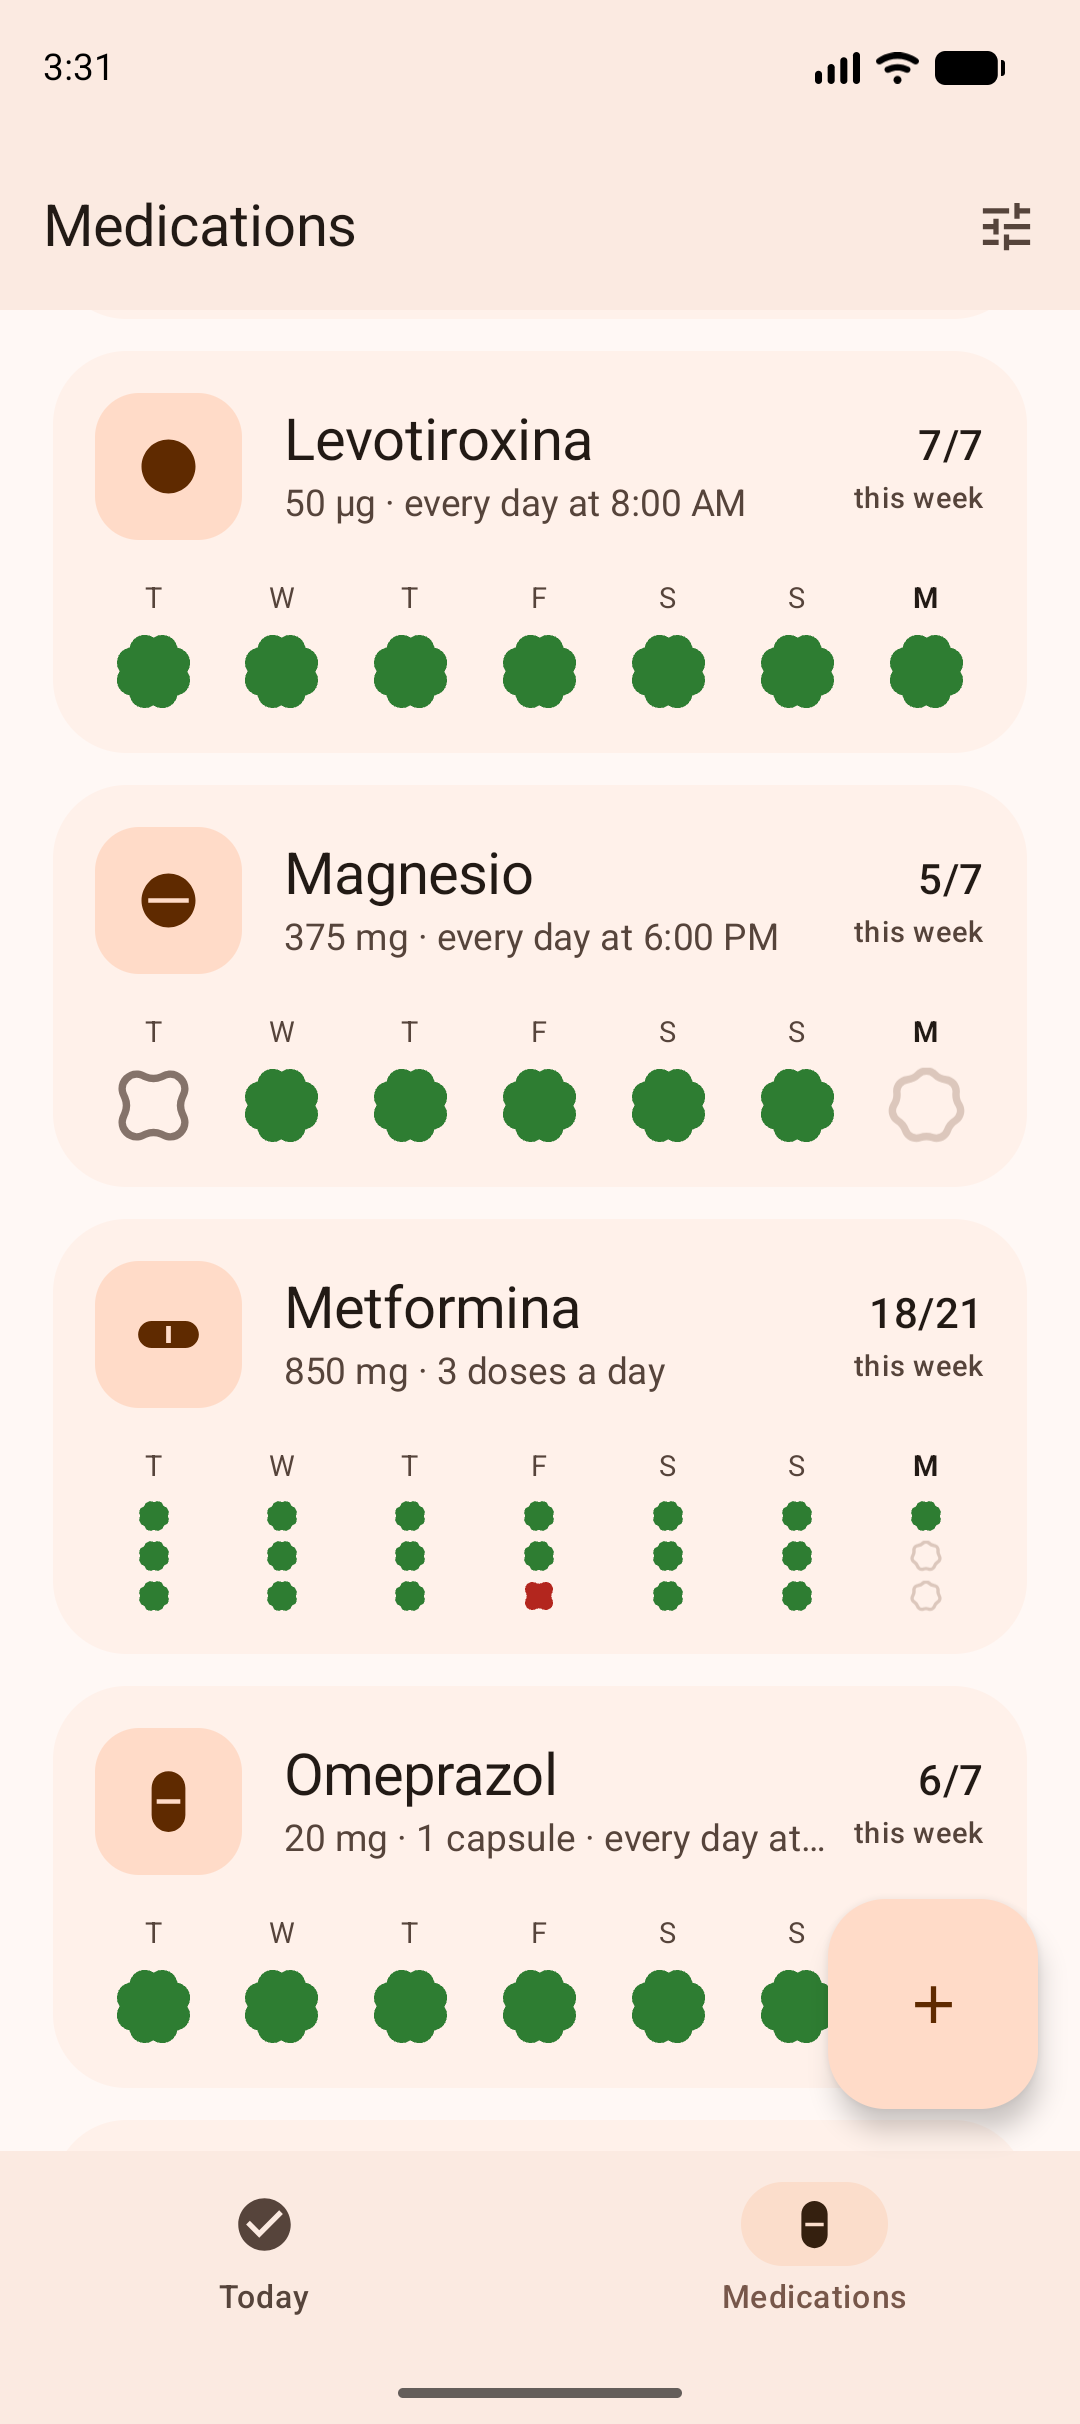
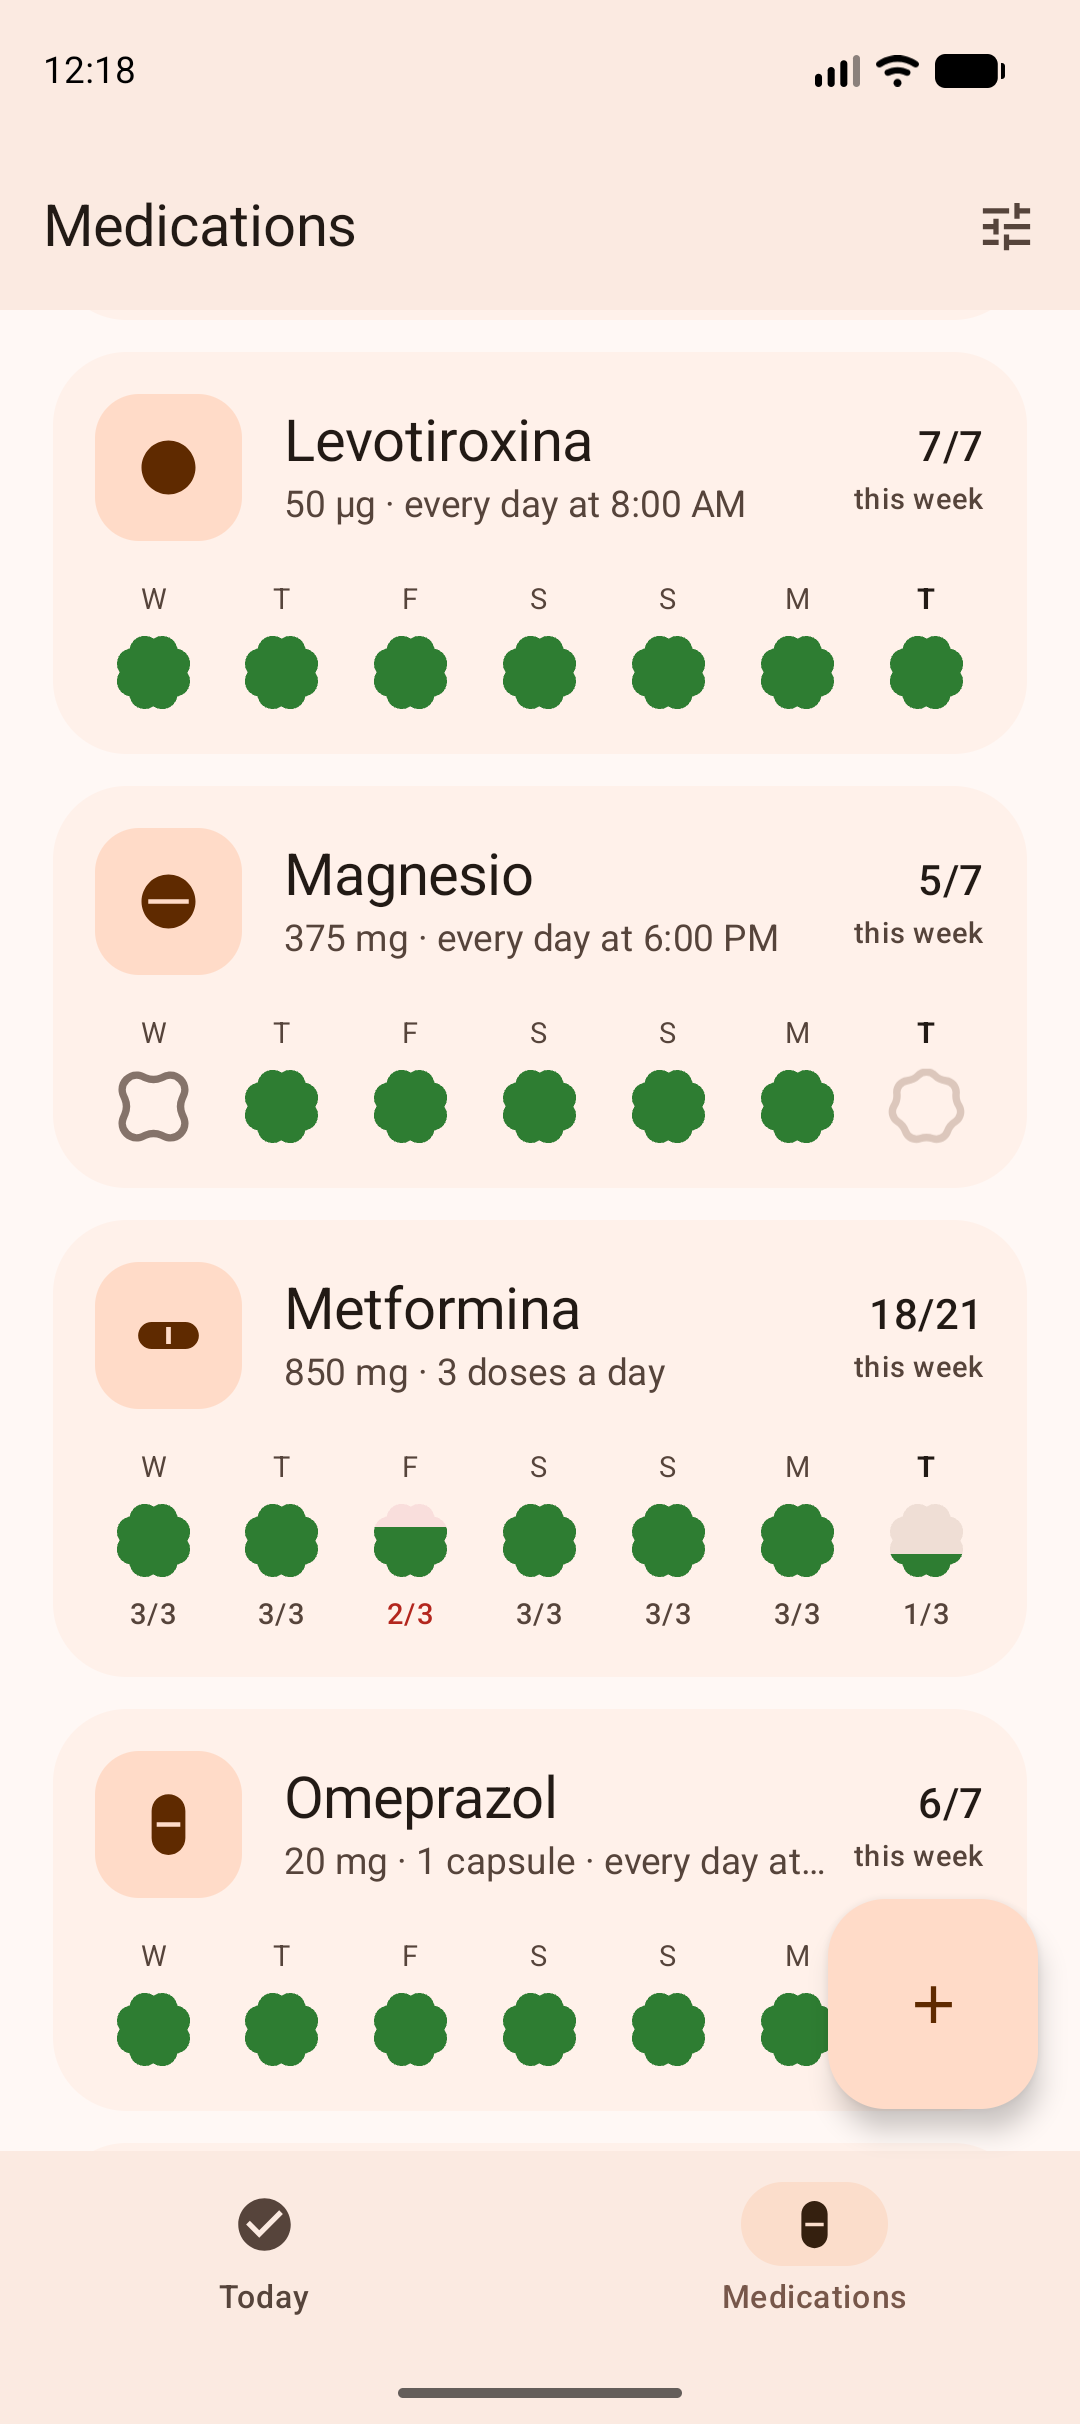
Give every week-strip day one fixed cell instead of shrinking to fit
The strip sized its cells to fit the busiest day's doses, so a three-a-day
medication drew 12 dp cells: too small to read, and too small for the shape
vocabulary (clover, cookie, diamond) to stay distinguishable. Each medication
also ended up a different height, so no two cards could be compared, and past
four doses a day the metaphor switched to proportional fill entirely.

One 30 dp cell per day now, whatever the schedule. A day with a single dose
still shows that dose's shape, so a once-a-day medication is pixel-identical to
before. A day with several reuses DoseFractionCell — already written for the
four-plus case — and spells the count out underneath, in the error color when
a dose was missed or skipped. Nothing to relearn, and "2 of 3 taken" reads at a
glance.

Days with nothing scheduled keep a middle dot so the count row stays aligned.

diff --git a/app/src/main/kotlin/com/victorfalcon/dose/ui/meds/MedicationsScreen.kt b/app/src/main/kotlin/com/victorfalcon/dose/ui/meds/MedicationsScreen.kt
@@ -14,7 +14,7 @@ import androidx.compose.foundation.layout.height
 import androidx.compose.foundation.layout.padding
 import androidx.compose.foundation.layout.width
 import androidx.compose.foundation.lazy.LazyColumn
-import androidx.compose.foundation.lazy.items
+import androidx.compose.foundation.lazy.itemsIndexed
 import androidx.compose.foundation.shape.RoundedCornerShape
 import androidx.compose.material3.Button
 import androidx.compose.material3.ButtonDefaults
@@ -39,6 +39,7 @@ import com.victorfalcon.dose.ui.common.DoseCellState
 import com.victorfalcon.dose.ui.common.DoseFractionCell
 import com.victorfalcon.dose.ui.common.DoseStateCell
 import com.victorfalcon.dose.ui.common.MedIcon
+import com.victorfalcon.dose.ui.common.entryFadeSlide
 import com.victorfalcon.dose.ui.common.scheduleSummaryShort
 import java.time.LocalDate
 import java.time.format.TextStyle
@@ -59,8 +60,10 @@ fun MedicationsScreen(
         modifier = Modifier.fillMaxSize(),
         contentPadding = PaddingValues(top = 4.dp, bottom = 96.dp),
     ) {
-        items(medications, key = { it.medication.id }) { row ->
-            MedicationCard(row, Modifier.animateItem()) { onOpenMedication(row.medication.id) }
+        itemsIndexed(medications, key = { _, row -> row.medication.id }) { index, row ->
+            MedicationCard(row, Modifier.animateItem().entryFadeSlide(index)) {
+                onOpenMedication(row.medication.id)
+            }
         }
     }
 }
@@ -124,25 +127,22 @@ private fun MedicationCard(row: MedRow, modifier: Modifier = Modifier, onClick: 
 }
 
 /**
- * The week, one column per day and one cell per dose. A once-a-day medication looks like a single
- * row of shapes; a three-times-a-day one stacks three, so "2 of 3 taken" is visible instead of
- * being rounded into a verdict.
+ * The week, one column per day at one fixed cell size. A day with a single dose shows that dose's
+ * shape; a day with several shows one shape filled to the fraction taken, with the count spelled
+ * out underneath — so "2 of 3 taken" reads without shrinking the cells, and every card ends up the
+ * same height whatever the schedule.
  */
 @Composable
 private fun WeekStrip(row: MedRow) {
     val today = remember { LocalDate.now() }
-    val cellSize = when (row.dosesPerDay) {
-        0, 1 -> 30.dp
-        2 -> 17.dp
-        3 -> 12.dp
-        else -> 28.dp // four or more: one proportional cell per day
-    }
     Row(
         modifier = Modifier.fillMaxWidth(),
         horizontalArrangement = Arrangement.spacedBy(4.dp),
     ) {
         row.week.forEach { day ->
             val isToday = day.date == today
+            val taken = day.cells.count { it == DoseCellState.TAKEN }
+            val failed = day.cells.any { it == DoseCellState.MISSED || it == DoseCellState.SKIPPED }
             Column(
                 modifier = Modifier.weight(1f),
                 horizontalAlignment = Alignment.CenterHorizontally,
@@ -155,29 +155,27 @@ private fun WeekStrip(row: MedRow) {
                     else MaterialTheme.colorScheme.onSurfaceVariant,
                     fontWeight = if (isToday) FontWeight.Bold else FontWeight.Normal,
                 )
-                if (row.dosesPerDay >= 4) {
-                    DoseFractionCell(
-                        taken = day.cells.count { it == DoseCellState.TAKEN },
-                        total = day.cells.size,
-                        failed = day.cells.any { it == DoseCellState.MISSED || it == DoseCellState.SKIPPED },
-                        size = cellSize,
+                when (day.cells.size) {
+                    0 -> DoseStateCell(DoseCellState.NONE, CellSize)
+                    1 -> DoseStateCell(day.cells.first(), CellSize)
+                    else -> DoseFractionCell(taken, day.cells.size, failed, CellSize)
+                }
+                if (row.dosesPerDay > 1) {
+                    Text(
+                        if (day.cells.isEmpty()) "·"
+                        else stringResource(R.string.med_week_count, taken, day.cells.size),
+                        style = MaterialTheme.typography.labelSmall,
+                        color = if (failed) MaterialTheme.colorScheme.error
+                        else MaterialTheme.colorScheme.onSurfaceVariant,
                     )
-                } else {
-                    Column(
-                        horizontalAlignment = Alignment.CenterHorizontally,
-                        verticalArrangement = Arrangement.spacedBy(3.dp),
-                    ) {
-                        if (day.cells.isEmpty()) {
-                            DoseStateCell(DoseCellState.NONE, cellSize)
-                        } else {
-                            day.cells.forEach { DoseStateCell(it, cellSize) }
-                        }
-                    }
                 }
             }
         }
     }
 }
+
+/** One size for every medication, so cells stay legible and cards stay comparable. */
+private val CellSize = 30.dp
 
 @Composable
 private fun EmptyState(onAddMedication: () -> Unit) {

diff --git a/app/src/main/kotlin/com/victorfalcon/dose/ui/common/DoseVisuals.kt b/app/src/main/kotlin/com/victorfalcon/dose/ui/common/DoseVisuals.kt
@@ -195,9 +195,9 @@ fun DoseTakeButton(
 private val CircleRing = RoundedCornerShape(50)
 
 /**
- * Fallback cell for medications with four or more doses a day, where separate cells stop being
- * legible: one shape per day, filled bottom-up to the fraction taken. The empty part is
- * error-tinted once a dose has actually been failed rather than merely still pending.
+ * A day of several doses as a single shape, filled bottom-up to the fraction taken — separate
+ * cells per dose stop being legible well before a busy schedule runs out of room. The empty part
+ * is error-tinted once a dose has actually been failed rather than merely still pending.
  */
 @Composable
 fun DoseFractionCell(

diff --git a/app/src/main/kotlin/com/victorfalcon/dose/ui/meds/MedicationsViewModel.kt b/app/src/main/kotlin/com/victorfalcon/dose/ui/meds/MedicationsViewModel.kt
@@ -33,7 +33,7 @@ data class MedRow(
     val takenThisWeek: Int,
     val dosesThisWeek: Int,
 ) {
-    /** The busiest day drives the cell size, so every day in the strip lines up. */
+    /** The busiest day: above a single dose, the strip spells out each day's taken/total. */
     val dosesPerDay: Int get() = week.maxOfOrNull { it.cells.size } ?: 0
 }
 
